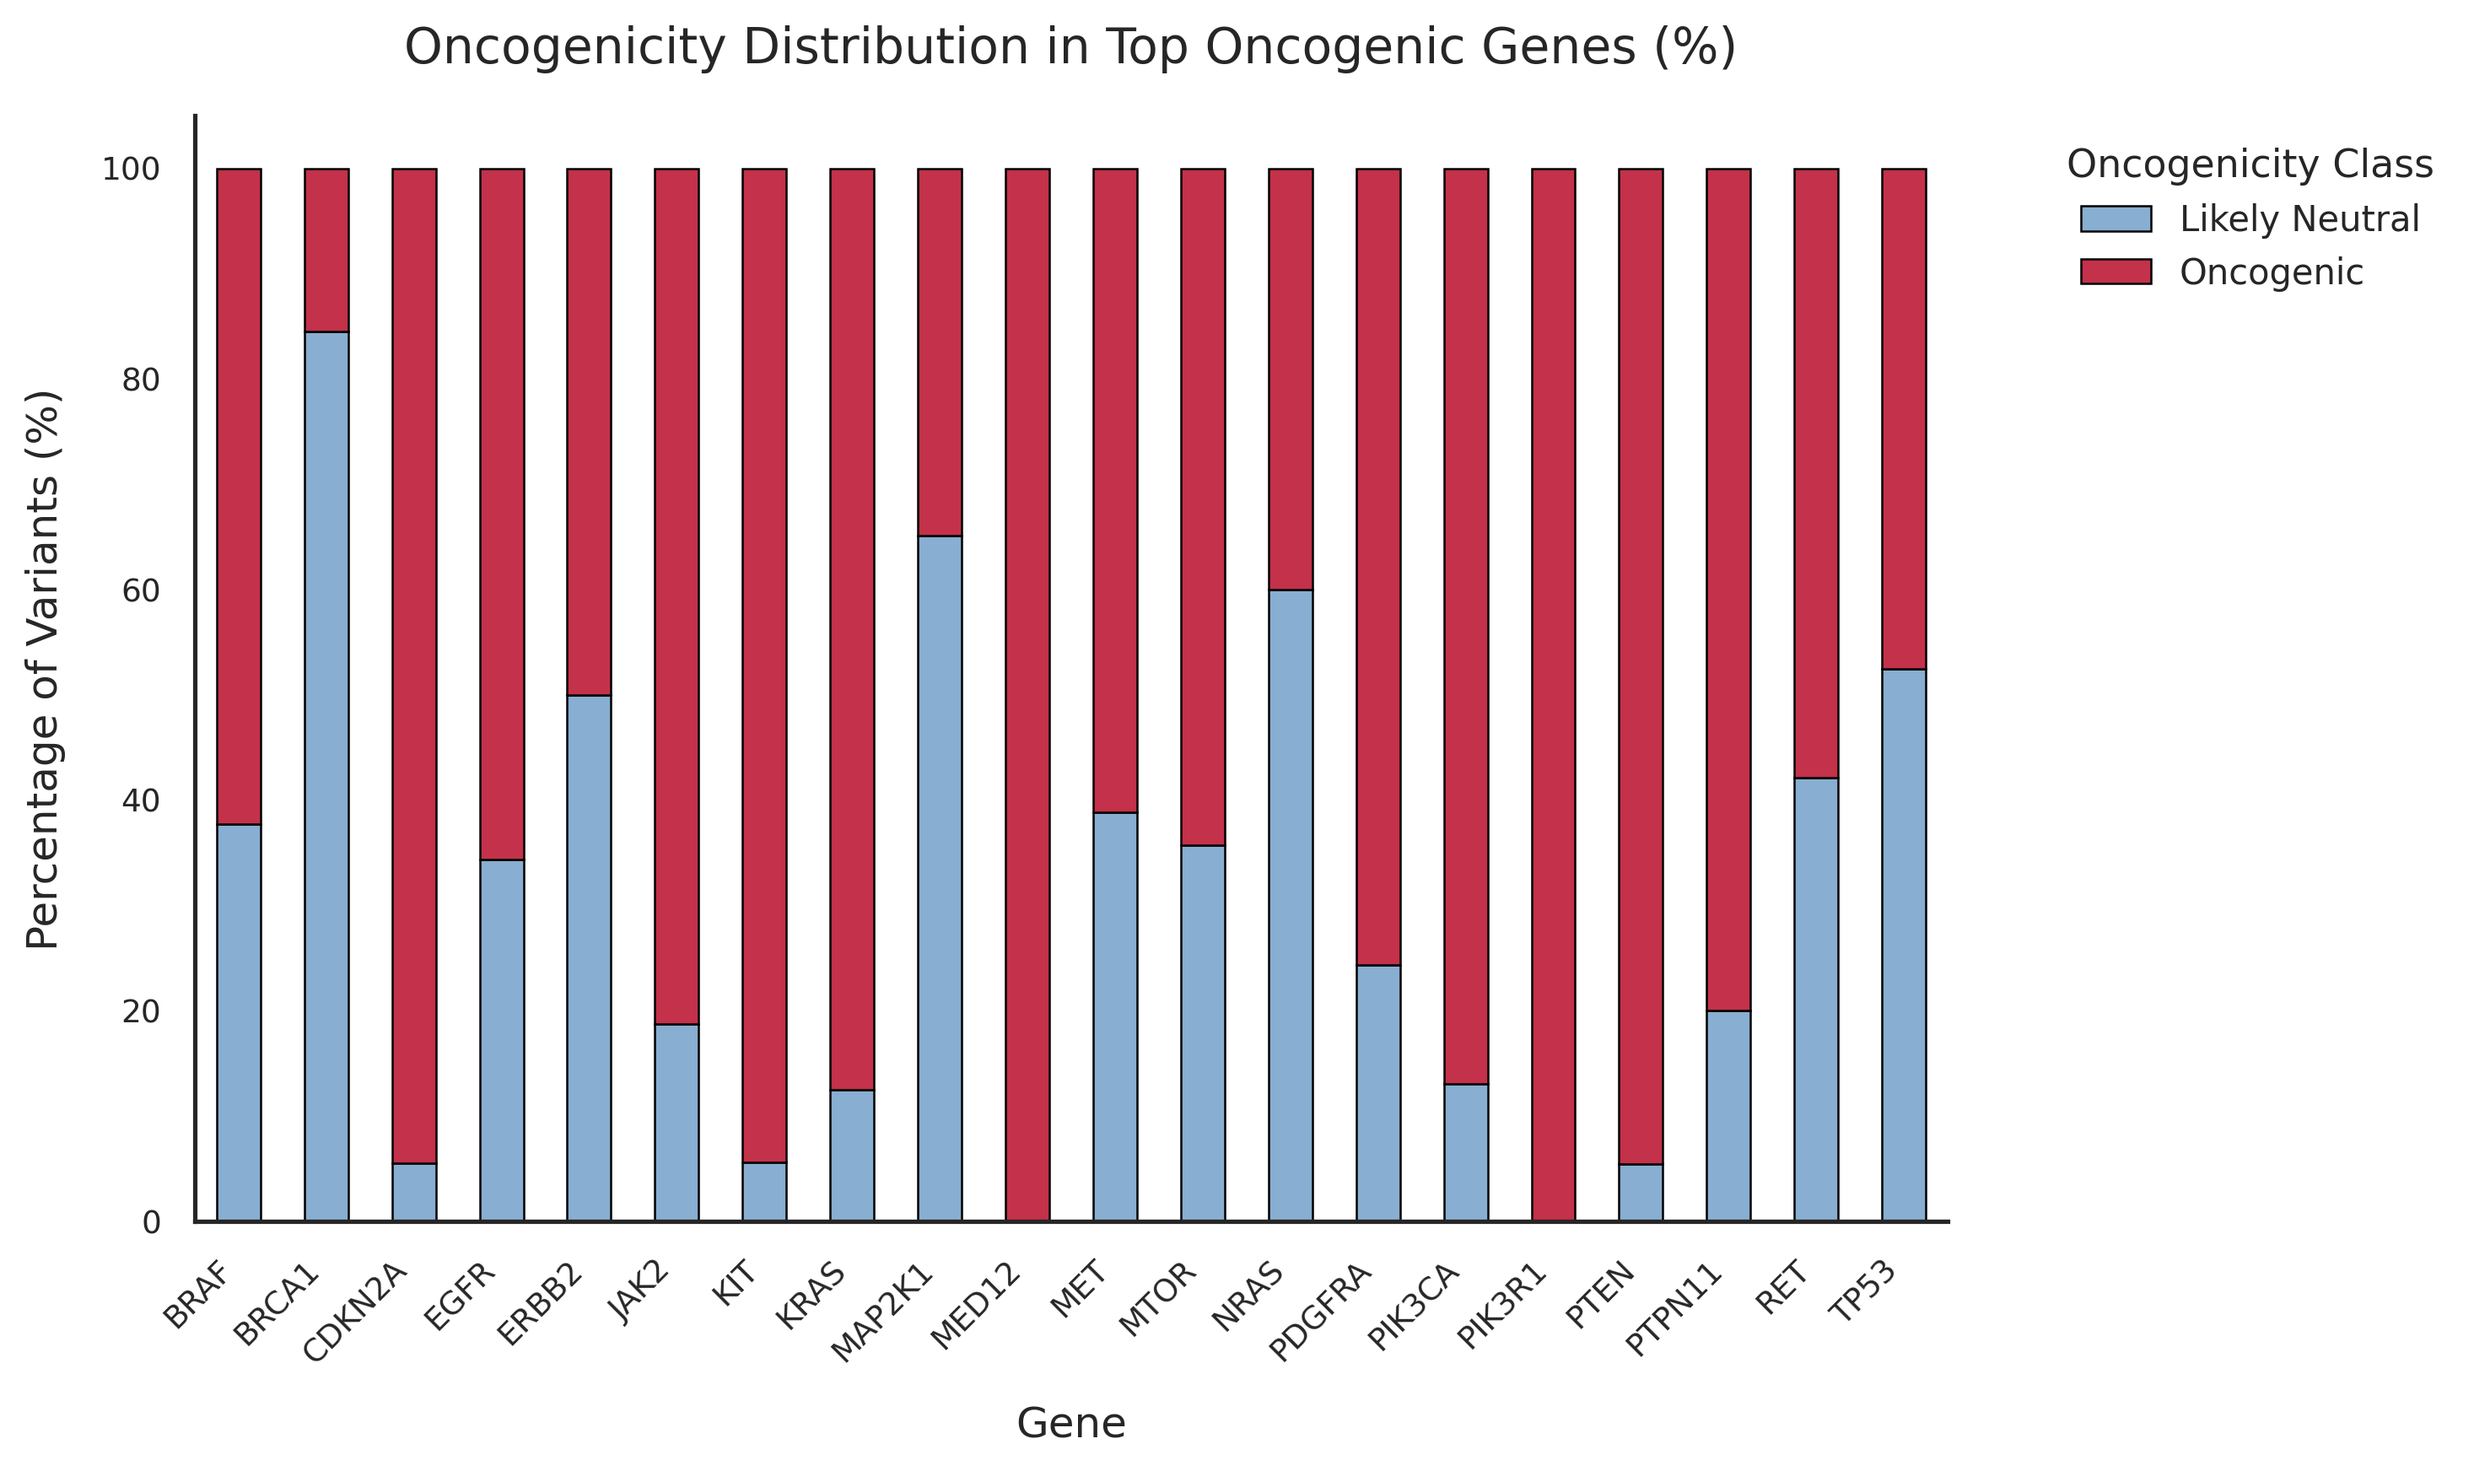
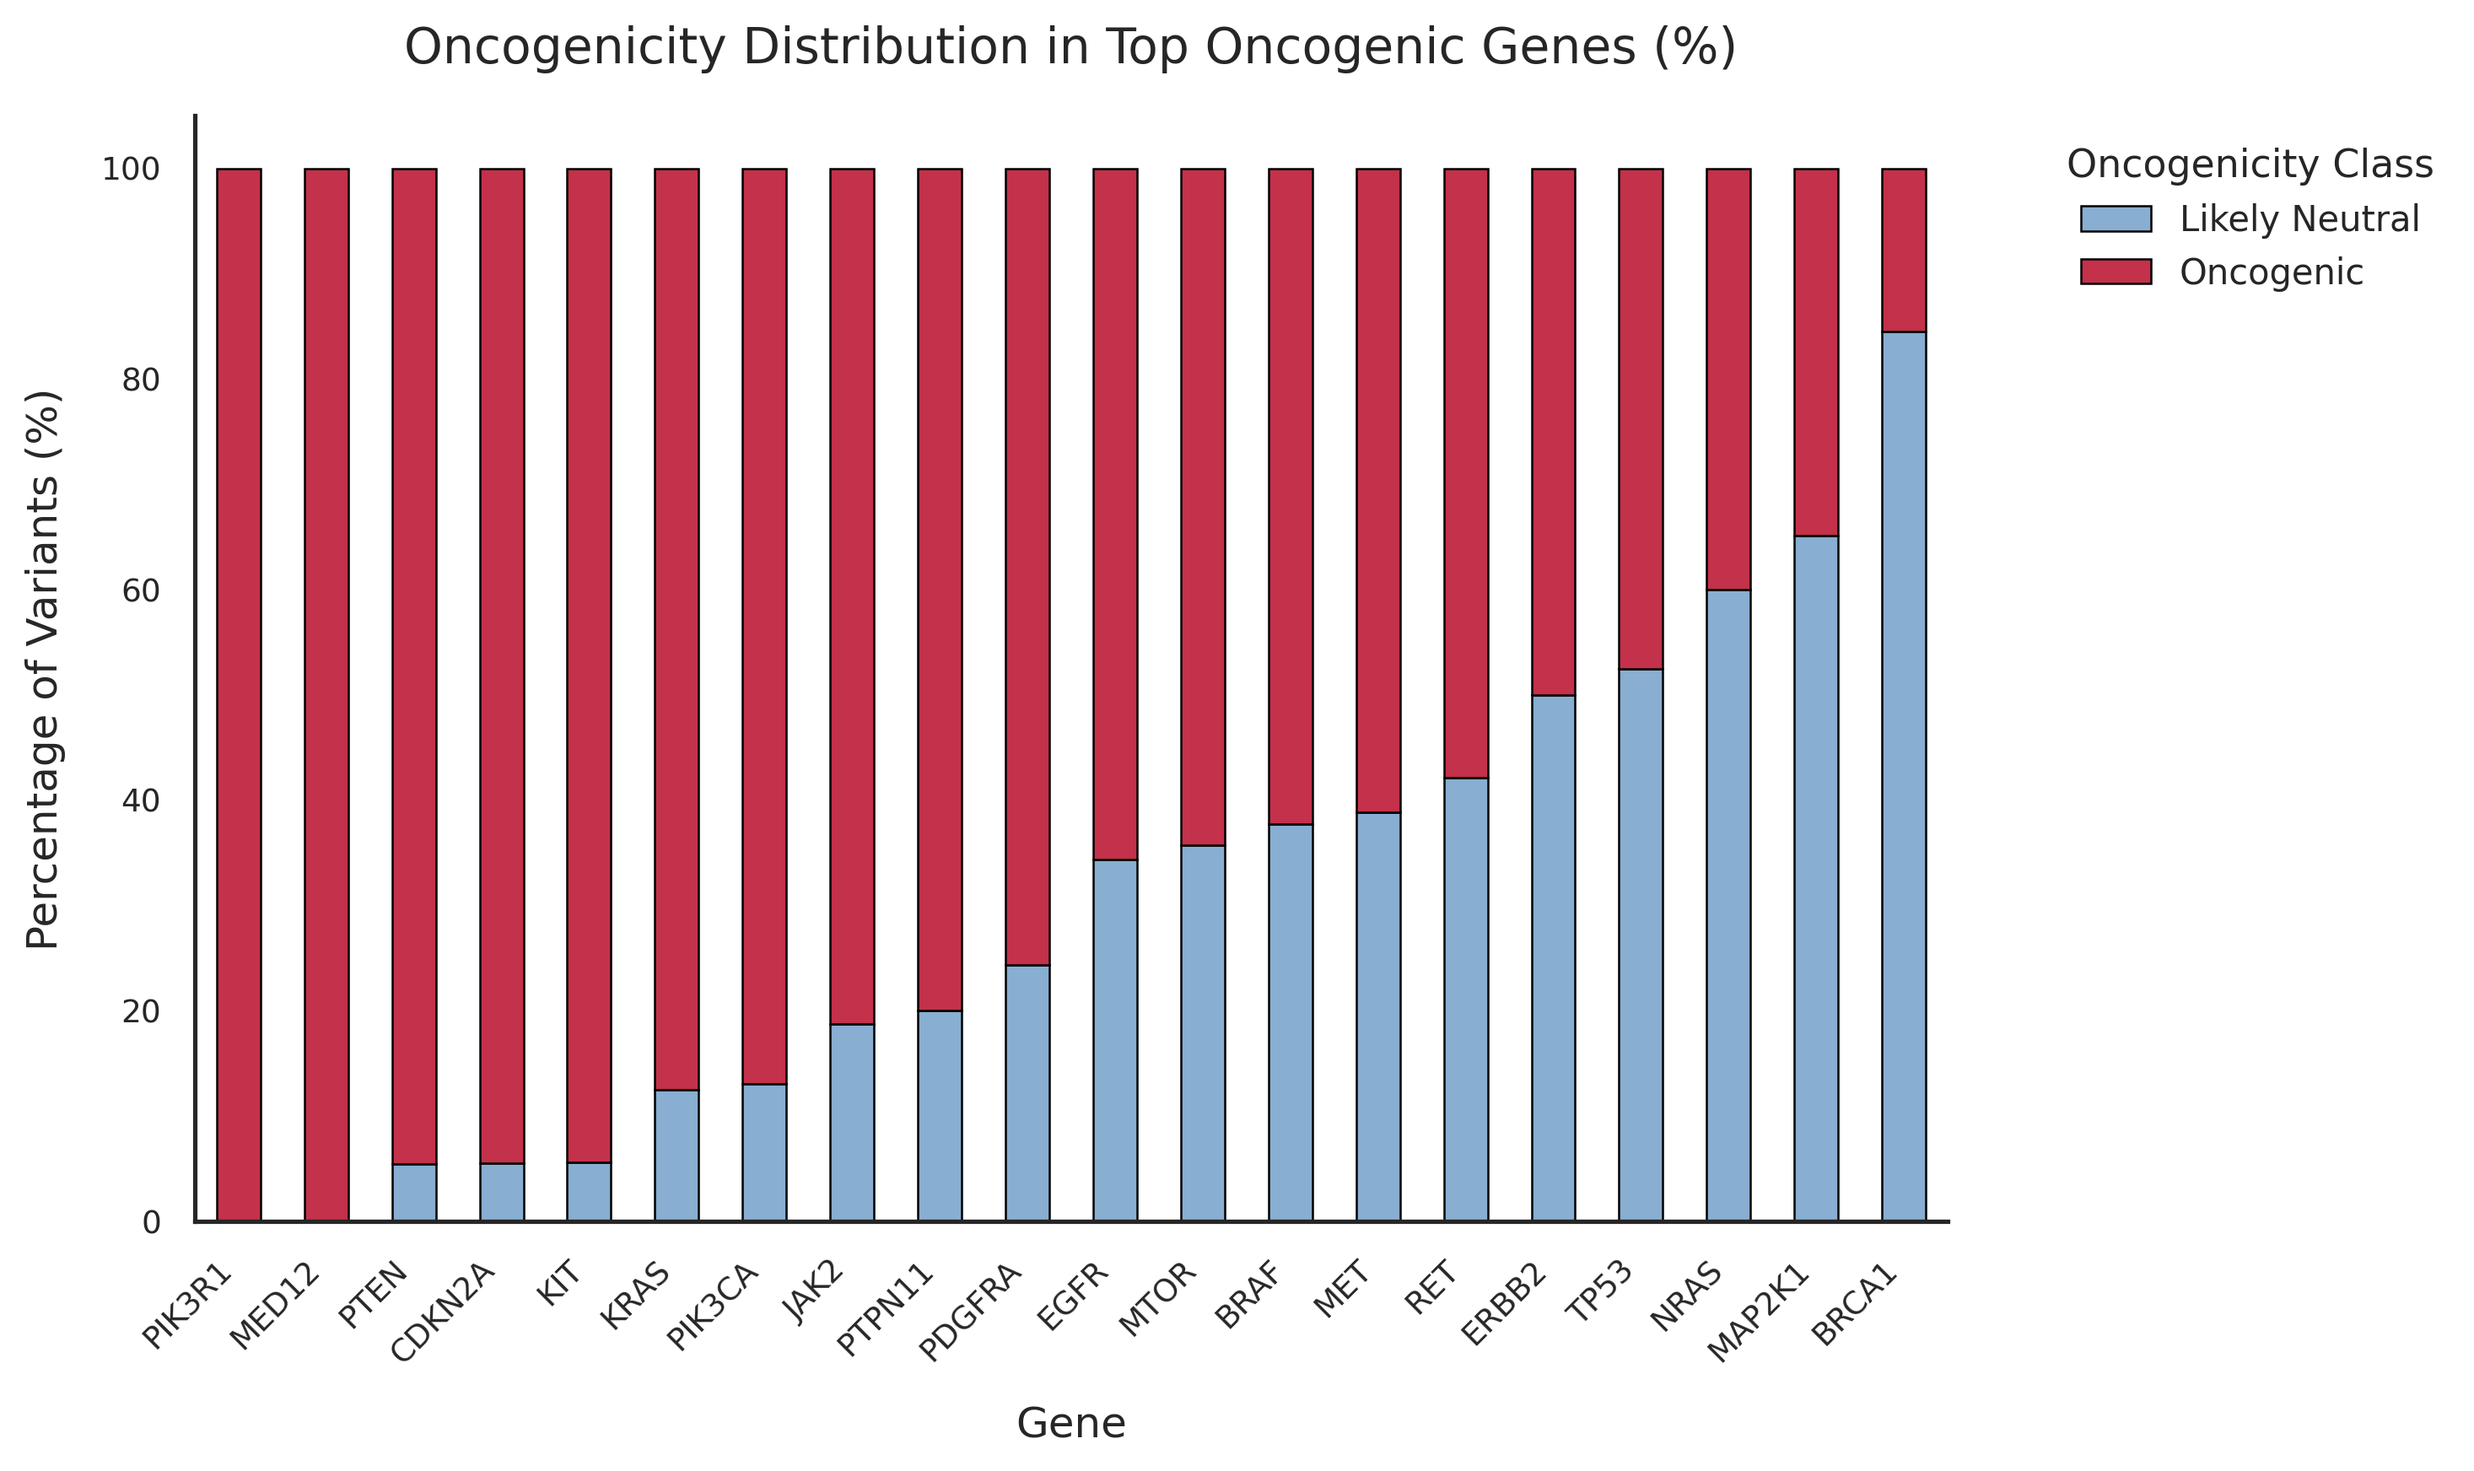
add gene overlap, sort gene plot

diff --git a/scripts/EDA/top_genes.py b/scripts/EDA/top_genes.py
@@ -151,6 +151,27 @@ n_unique_neutral = neutral_variants["Hugo_Symbol"].nunique()
 print(f"Total number of genes with neutral variants: {n_unique_neutral}")
 
 #--------------------------------------------------------------------
+# Check number of overlapping genes
+#--------------------------------------------------------------------
+
+from matplotlib_venn import venn2
+
+oncogenic_genes_set = set(oncogenic_variants["Hugo_Symbol"])
+neutral_genes_set = set(neutral_variants["Hugo_Symbol"])
+
+overlap = oncogenic_genes_set & neutral_genes_set
+
+print(f"Number of overlapping genes: {len(overlap)}")
+print(f"Overlapping genes: {overlap}")
+
+venn2([oncogenic_genes_set, neutral_genes_set], 
+      set_labels=('Oncogenic', 'Neutral'),
+      set_colors=('#c4314a', '#88aed1'),
+      alpha=0.6)
+
+plt.savefig(f"{save_dir}/venn.png", dpi=300, bbox_inches="tight")
+
+#-------------------------------------------------------------------
 # Visualize top 30 genes for all oncogenicity classes 
 #--------------------------------------------------------------------
 
@@ -303,6 +324,7 @@ pivot = distribution_filtered.pivot(
 ).fillna(0)
 
 pivot_pct = pivot.div(pivot.sum(axis=1), axis=0) * 100 
+pivot_pct = pivot_pct.sort_values(by="Oncogenic", ascending=False)
 
 sns.set_style(style="white") 
 
